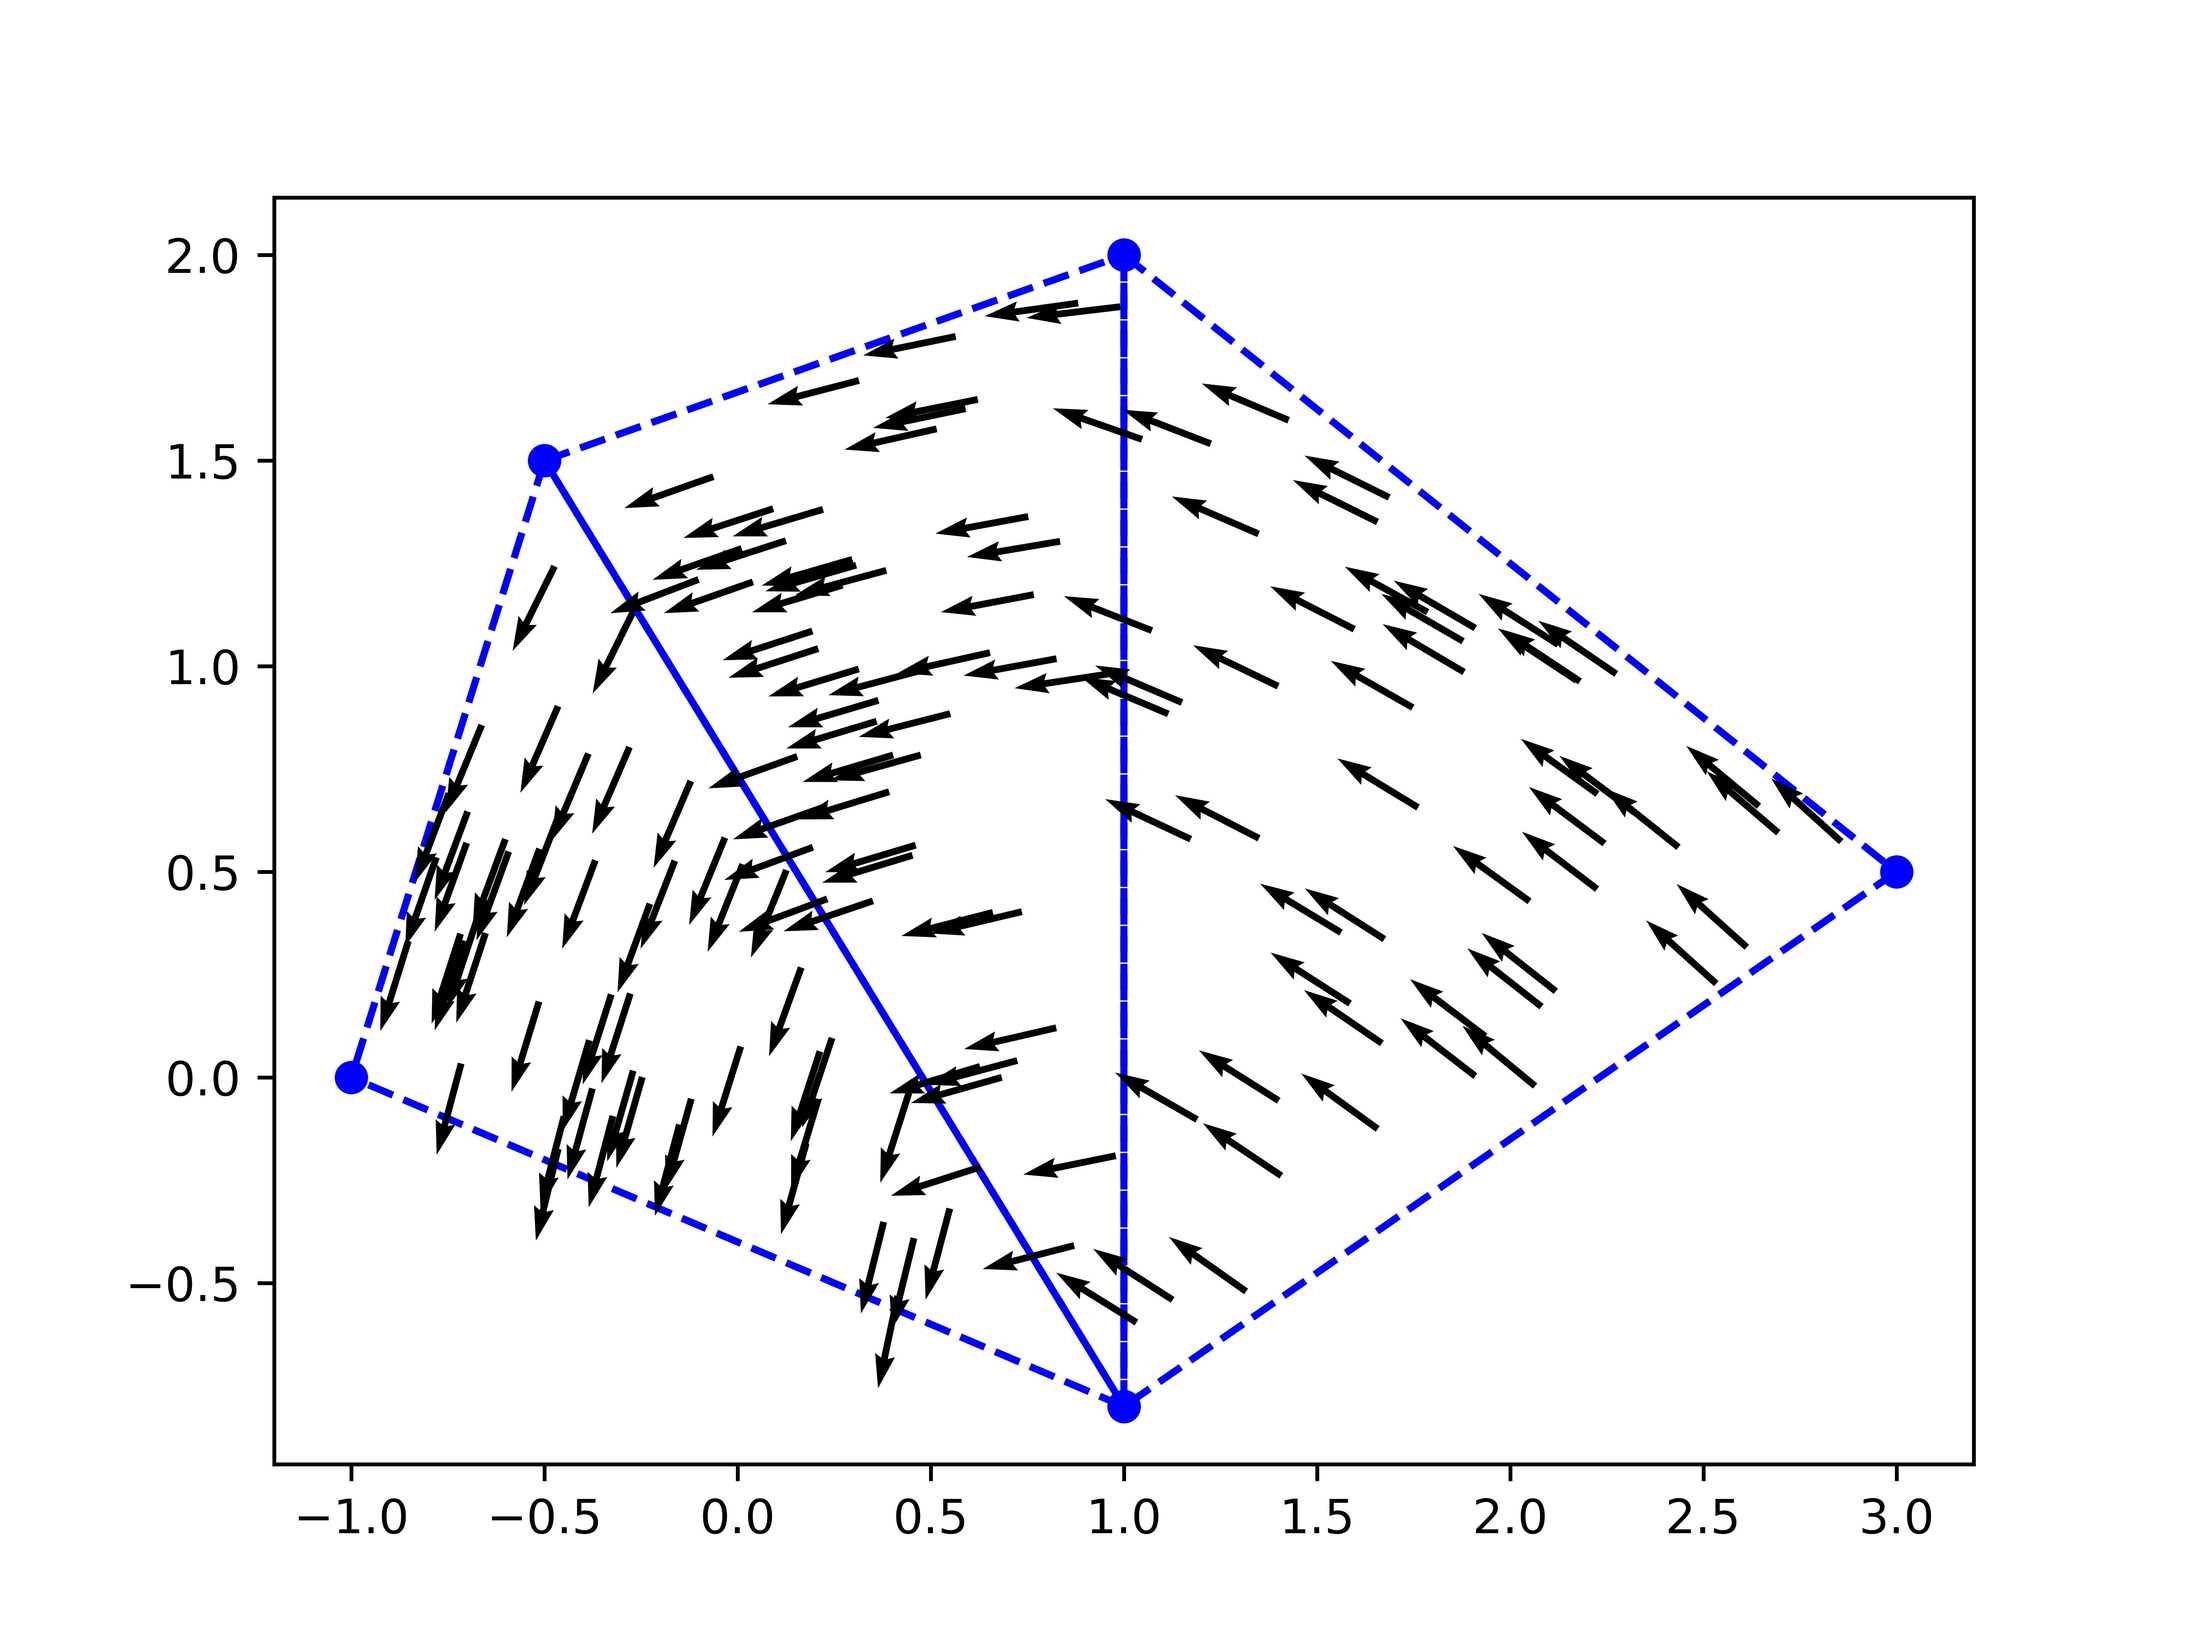
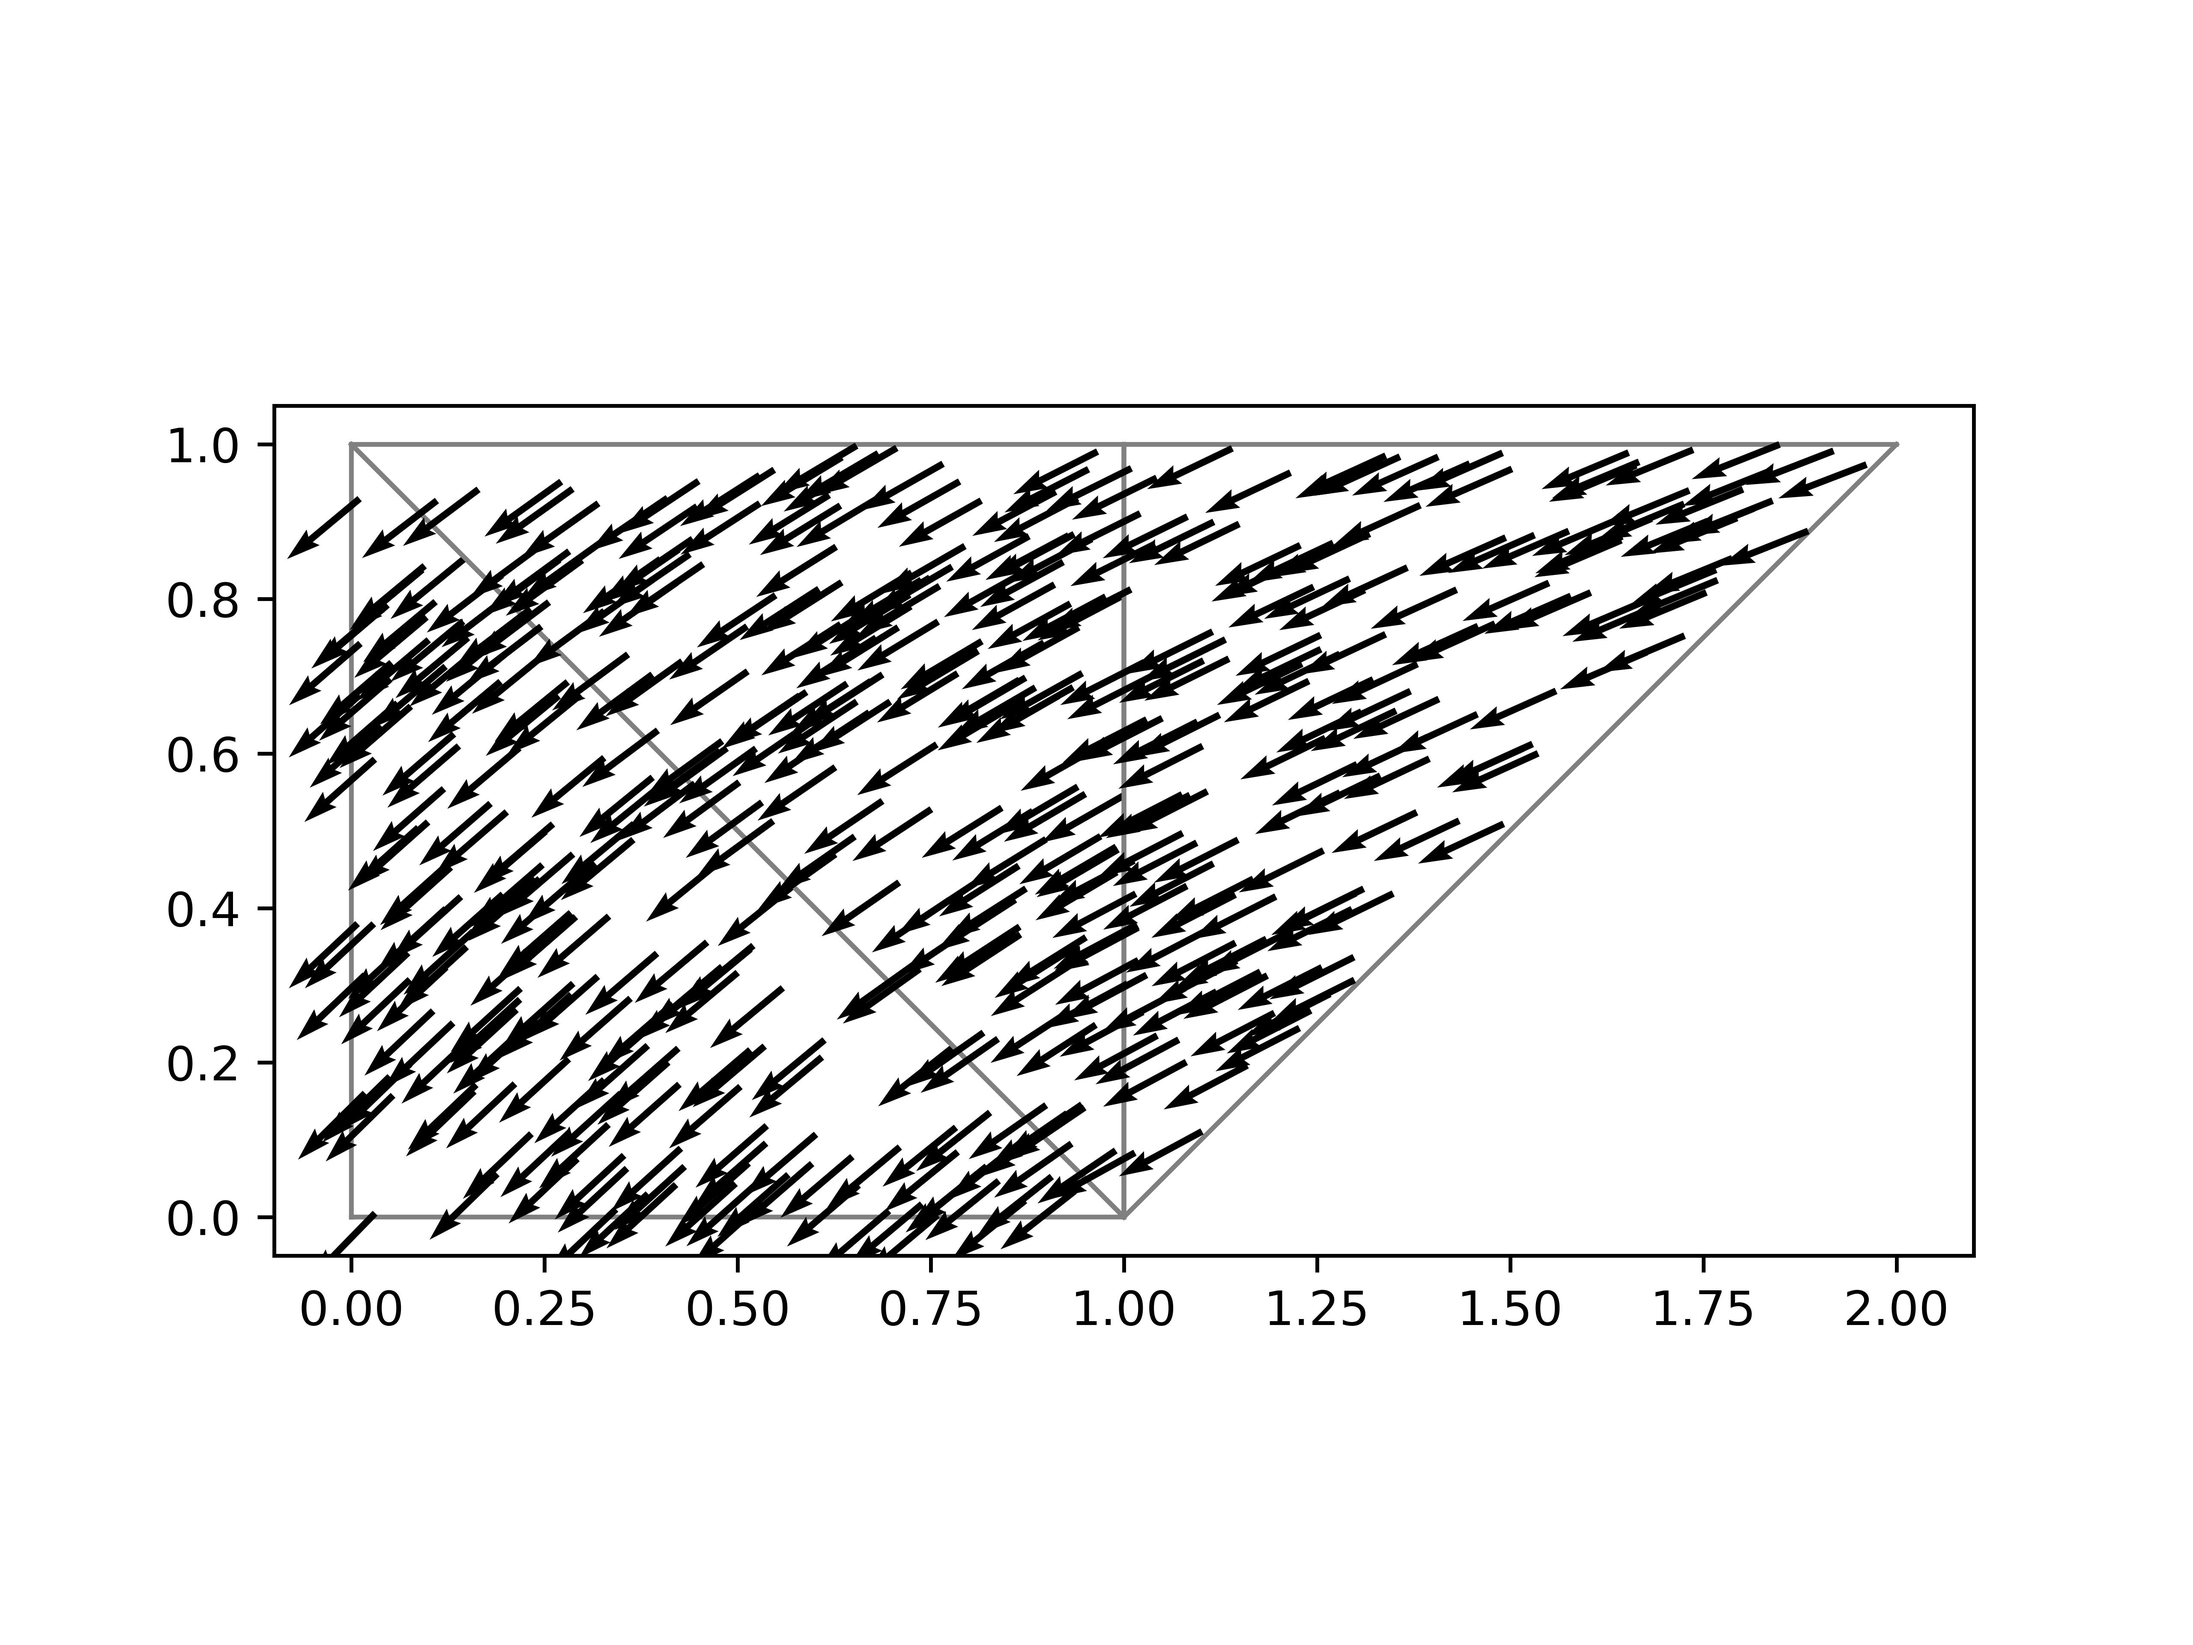
Model works with the enforcement of specific boundary conditions.

diff --git a/interp.py b/interp.py
@@ -2,10 +2,47 @@ import numpy as np
 import matplotlib.tri as tri
 import matplotlib.pyplot as plt
 
-np.set_printoptions(precision=2)
+np.set_printoptions(precision=2, linewidth=200)
 
 
-def TriangleGuassianQuadrature(n1_coord, n2_coord, n3_coord, idx, idy):
+def get_node_coords(element, edge_conn, elem_edge_conn, X):
+    # Extract the edges
+    E1 = elem_edge_conn[element][0]
+    E2 = elem_edge_conn[element][1]
+    E3 = elem_edge_conn[element][2]
+
+    nodes_edge1 = edge_conn[E1]
+    nodes_edge2 = edge_conn[E2]
+    nodes_edge3 = edge_conn[E3]
+
+    # Comine the edges based on the elem_edge_conn
+    nodes = [
+        nodes_edge1[0],
+        nodes_edge1[1],
+        nodes_edge2[0],
+        nodes_edge2[1],
+        nodes_edge3[0],
+        nodes_edge3[1],
+    ]
+
+    # Extract the unique node tags in the order of the edge connectivity
+    n1_tag = nodes_edge1[0]
+    n2_tag = nodes_edge2[0]
+    n3_tag = nodes_edge3[0]
+
+    # Extract the coordinates
+    n1_coord = X[n1_tag]
+    n2_coord = X[n2_tag]
+    n3_coord = X[n3_tag]
+    return n1_coord, n2_coord, n3_coord
+
+
+def TriangleGuassianQuadrature(element, edge_conn, elem_edge_conn, X, idx, idy):
+    # Get the node coordinates for the element.
+    n1_coord, n2_coord, n3_coord = get_node_coords(
+        element, edge_conn, elem_edge_conn, X
+    )
+
     pts = np.array([[1 / 3, 1 / 3, 1 / 3]])
     wts = np.array([1.0])
     I = 0.0
@@ -70,6 +107,7 @@ def eval_shape_funcs(n1_coord, n2_coord, n3_coord, x, y):
 
     # Area of an element
     area = 0.5 * (b1 * c2 - b2 * c1)
+    assert area > 0
 
     # Compute the length of each edge
     length = lambda x1, y1, x2, y2: np.sqrt((x1 - x2) ** 2 + (y1 - y2) ** 2)
@@ -138,7 +176,12 @@ def barycenter_sampling(n1_coord, n2_coord, n3_coord):
     return new_point[0], new_point[1]  # xi and eta frame
 
 
-def visualize_element_basis(n1_coord, n2_coord, n3_coord):
+def visualize_element_basis(element, edge_conn, elem_edge_conn, X, title=None):
+    # Get the node coordinates for the element.
+    n1_coord, n2_coord, n3_coord = get_node_coords(
+        element, edge_conn, elem_edge_conn, X
+    )
+
     # Initialize plot
     fig, ax = plt.subplots(ncols=3)
 
@@ -174,21 +217,36 @@ def visualize_element_basis(n1_coord, n2_coord, n3_coord):
     ax[0].set_title(r"$N_1$")
     ax[1].set_title(r"$N_2$")
     ax[2].set_title(r"$N_3$")
+    fig.suptitle(title)
+    plt.savefig(title + ".jpg", dpi=800)
     return
 
 
-def plot_element_solution(n1_coord, n2_coord, n3_coord, soln, fix, ax):
+def plot_element_solution(
+    element,
+    edge_conn,
+    elem_edge_conn,
+    X,
+    soln,
+    fix,
+    ax,
+    signs=[1.0, 1.0, 1.0],
+):
+    # Get the node coordinates for the element.
+    n1_coord, n2_coord, n3_coord = get_node_coords(
+        element, edge_conn, elem_edge_conn, X
+    )
 
-    # Plot the mesh
+    # Plot the element mesh
     triang = tri.Triangulation(
         [n1_coord[0], n2_coord[0], n3_coord[0]],
         [n1_coord[1], n2_coord[1], n3_coord[1]],
         [[0, 1, 2]],
     )
-    ax.triplot(triang, "bo--")
+    ax.triplot(triang, color="grey", linestyle="-", linewidth=1.0)
 
     # Compute the vector field inside the element
-    npts = 50  # total number of points in the vector field
+    npts = 150  # total number of points in the vector field
     for i in range(npts):
         # Get the x, y point in the triangle to evaluate the shape function
         x, y = barycenter_sampling(n1_coord, n2_coord, n3_coord)
@@ -198,10 +256,46 @@ def plot_element_solution(n1_coord, n2_coord, n3_coord, soln, fix, ax):
             n1_coord, n2_coord, n3_coord, x, y
         )
 
-        E = N1 * soln[0] + N2 * soln[1] + N3 * soln[2]
+        E = signs[0] * N1 * soln[0] + signs[1] * N2 * soln[1] + signs[2] * N3 * soln[2]
 
         # Update the plot
         ax.quiver(x, y, E[0], E[1], width=4e-3)
+
+    ax.set_aspect("equal")
+    return
+
+
+def plot_mesh(X, elem_conn, edge_conn, elem_edge_conn):
+    fig, ax = plt.subplots()
+    triang = tri.Triangulation(X[:, 0], X[:, 1], elem_conn)
+    ax.triplot(triang, color="grey", linestyle="--", linewidth=1.0)
+
+    # Plot the node tags for each element
+    for e in range(len(elem_conn)):
+        elem_node_tags = elem_conn[e]
+        n1_tag = elem_node_tags[0]
+        n2_tag = elem_node_tags[1]
+        n3_tag = elem_node_tags[2]
+        plt.text(X[n1_tag, 0], X[n1_tag, 1], f"{n1_tag}")
+        plt.text(X[n2_tag, 0], X[n2_tag, 1], f"{n2_tag}")
+        plt.text(X[n3_tag, 0], X[n3_tag, 1], f"{n3_tag}")
+
+    # Plot the edges for each element
+    for e in range(len(elem_conn)):
+        edge_tags = elem_edge_conn[e]
+
+        for edge_i in edge_tags:
+            n1_tag = edge_conn[edge_i][0]  # Start node for edge
+            n2_tag = edge_conn[edge_i][1]  # End node for edge
+            x1 = X[n1_tag, 0]
+            y1 = X[n1_tag, 1]
+            x2 = X[n2_tag, 0]
+            y2 = X[n2_tag, 1]
+            xm = 0.5 * (x1 + x2)
+            ym = 0.5 * (y1 + y2)
+            plt.text(xm, ym, f"\nE{edge_i}")
+
+    plt.savefig("mesh.jpg", dpi=1000)
 
     return
 
@@ -210,63 +304,62 @@ if __name__ == "__main__":
     # coords
     X = np.array(
         [
-            [-1.0, 0.0],
-            [1.0, -0.8],
-            [-0.5, 1.5],
-            [1.0, 2.0],
-            [3.0, 0.5],
+            [0.0, 0.0],  # node 0
+            [1.0, 0.0],  # node 1
+            [0.0, 1.0],  # node 2
+            [1.0, 1.0],  # node 3
+            [2.0, 1.0],  # node 4
         ]
     )
 
     # elem -> node
     elem_conn = [
-        [0, 1, 2],
-        [3, 2, 1],
-        [1, 4, 3],
+        [1, 2, 0],  # e0
+        [3, 2, 1],  # e1
+        [1, 4, 3],  # e2
     ]
 
     edge_conn = [
         [0, 1],  # E0
         [1, 2],  # E1
         [2, 0],  # E2
-        [3, 2],  # E3
-        [2, 1],  # E4
-        [1, 3],  # E5
+        [1, 3],  # E3
+        [3, 2],  # E4
+        [2, 1],  # E5
         [3, 1],  # E6
         [1, 4],  # E7
         [4, 3],  # E8
     ]
 
-    #! WHYYYYYYYYYYYYYYYYYYYYY
     elem_edge_conn = [
         [2, 0, 1],
-        [3, 4, 5],
+        [5, 3, 4],
         [7, 8, 6],
     ]
+
+    # Plot the mesh and the connectivity
+    plot_mesh(X, elem_conn, edge_conn, elem_edge_conn)
 
     # Assemble stiffness matrix
     K = np.zeros((9, 9))
     # Loop through each element
     for e in range(len(elem_conn)):
-        # Extract the node tags
-        n1_tag = elem_conn[e][0]
-        n2_tag = elem_conn[e][1]
-        n3_tag = elem_conn[e][2]
-
-        # Extract the node coordinates
-        n1_coord = X[n1_tag]
-        n2_coord = X[n2_tag]
-        n3_coord = X[n3_tag]
-
-        # visualize_element_basis(n1_coord, n2_coord, n3_coord)
+        visualize_element_basis(
+            e,
+            edge_conn,
+            elem_edge_conn,
+            X,
+            title=f"Element {e} H(curl)",
+        )
 
         for i in range(3):
             row = elem_edge_conn[e][i]
             for j in range(3):
                 col = elem_edge_conn[e][j]
                 K[row, col] += TriangleGuassianQuadrature(
-                    n1_coord, n2_coord, n3_coord, i, j
+                    e, edge_conn, elem_edge_conn, X, i, j
                 )
+    print("\nStiffness Matrix (No BCs)")
     print(K)
 
     # Define G
@@ -283,51 +376,61 @@ if __name__ == "__main__":
     E[0:9, [-1, -2]] = G.T
     E[[-1, -2], 0:9] = G
     rhs = np.zeros(11)
+
+    print("\nMatrix E w/ Lagrange Multipliers")
     print(E)
 
     # Apply boundary condition to E
     # bc = 0
     # E[bc, :] = 0.0
     # E[bc, bc] = 1.0
-    # rhs[bc] = 1.0
+    # rhs[bc] = 0.0
 
-    # E[2, :] = 0.0
-    # E[2, 2] = 1.0
-    # rhs[2] = 1.0
+    # E[0, :] = 0.0
+    # E[0, 0] = 1.0
+    # rhs[0] = 1.0
 
-    # E[4, :] = 0.0
-    # E[4, 4] = 1.0
-    # rhs[4] = 0.0
+    E[2, :] = 0.0
+    E[2, 2] = 1.0
+    rhs[2] = 1.0
+
+    E[4, :] = 0.0
+    E[4, 4] = 1.0
+    rhs[4] = 1.0
+
+    # E[7, :] = 0.0
+    # E[7, 7] = 1.0
+    # rhs[7] = 0.0
 
     E[8, :] = 0.0
     E[8, 8] = 1.0
     rhs[8] = 1.0
 
+    print("\nMatrix E w/ BCs")
     print(E)
+
+    print("\n RHS Vector")
     print(rhs)
+    print()
     u = np.linalg.solve(E, rhs)
 
     for i, soln_i in enumerate(u):
         print(f"u[{i}] = {soln_i:4f}")
 
     # Initialize plot
+    print()
     fig1, ax1 = plt.subplots()
-    for e in range(len(elem_conn)):
-        # Extract the node tags
-        n1_tag = elem_conn[e][0]
-        n2_tag = elem_conn[e][1]
-        n3_tag = elem_conn[e][2]
-
-        # Extract the node coordinates
-        n1_coord = X[n1_tag]
-        n2_coord = X[n2_tag]
-        n3_coord = X[n3_tag]
-
-        # Extract solution
-        soln = u[elem_edge_conn[e]]
-        print(f"Element: {e}, Edges{elem_edge_conn[e]}, soln: {soln}")
-
-        plot_element_solution(n1_coord, n2_coord, n3_coord, soln, fig1, ax1)
-
+    soln1 = u[elem_edge_conn[0]]
+    soln2 = u[elem_edge_conn[1]]
+    soln3 = u[elem_edge_conn[2]]
+    plot_element_solution(
+        0, edge_conn, elem_edge_conn, X, soln1, fig1, ax1, signs=[1, 1, 1]
+    )
+    plot_element_solution(
+        1, edge_conn, elem_edge_conn, X, soln2, fig1, ax1, signs=[1, 1, 1]
+    )
+    plot_element_solution(
+        2, edge_conn, elem_edge_conn, X, soln3, fig1, ax1, signs=[1, 1, 1]
+    )
     plt.savefig("fem.jpg", dpi=800)
     # plt.show()
